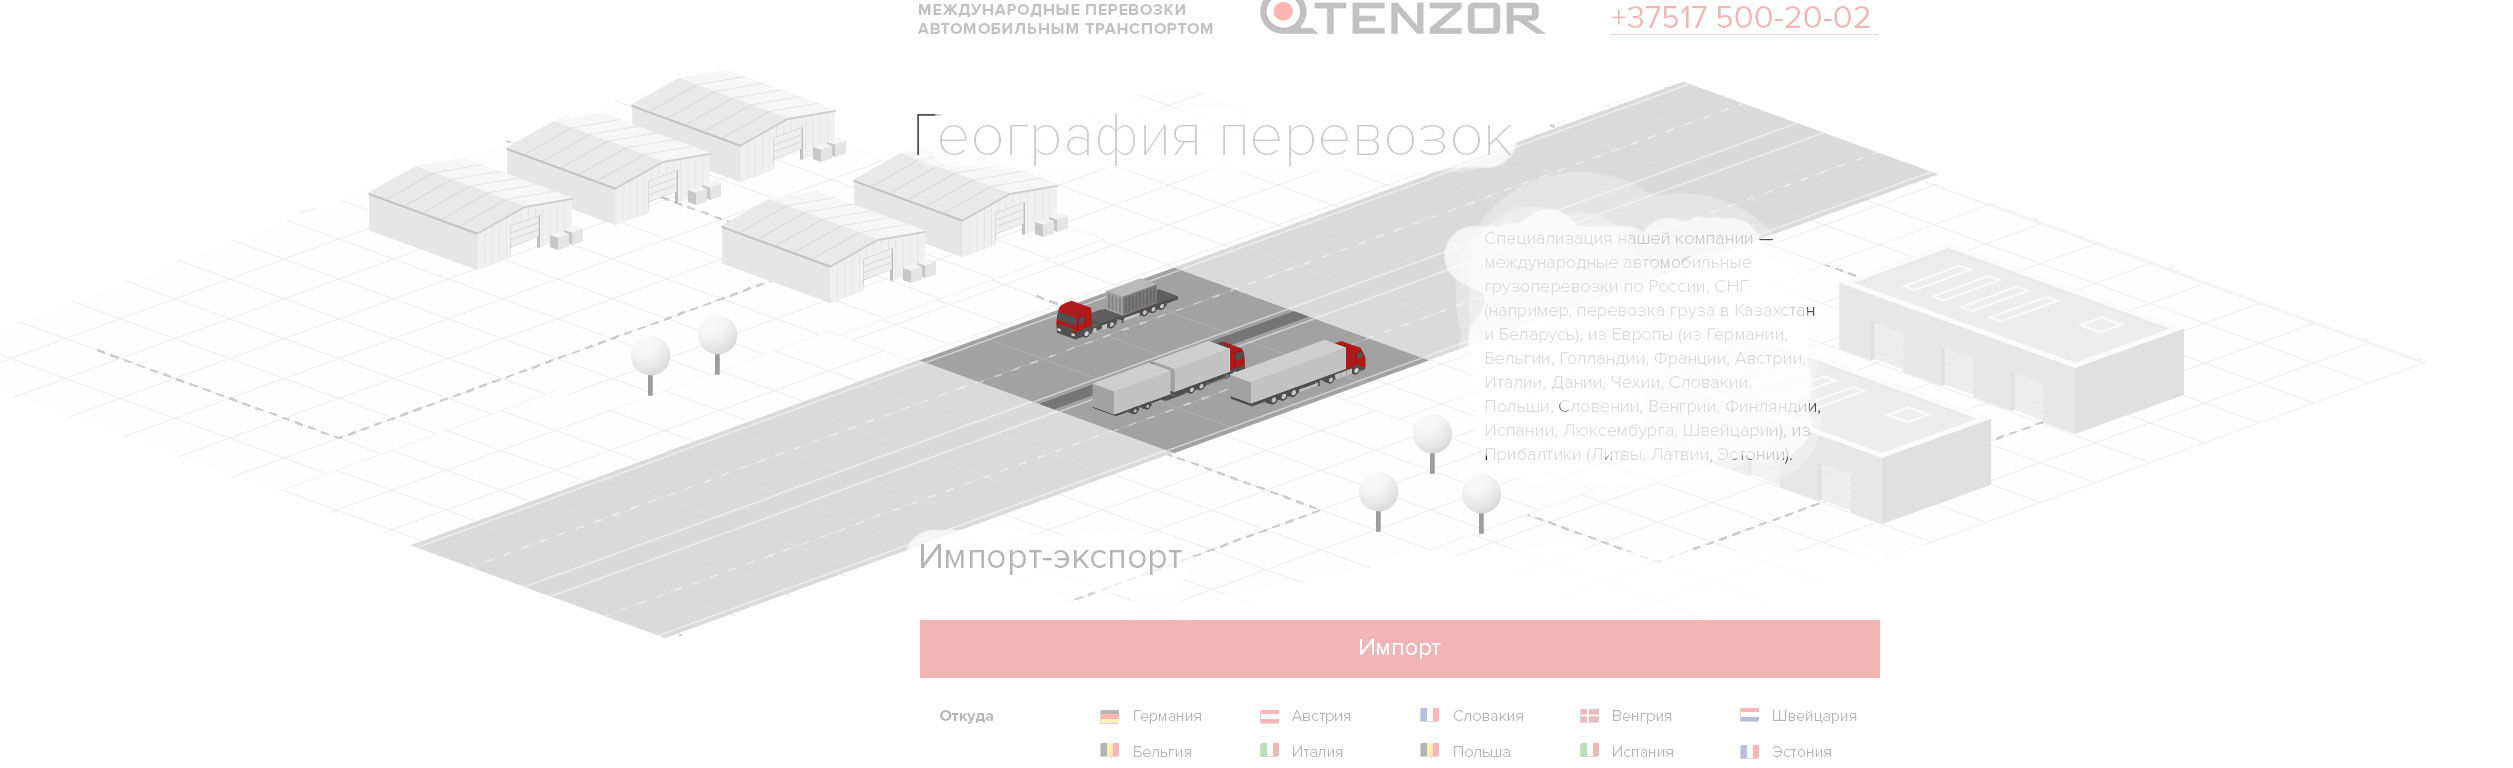
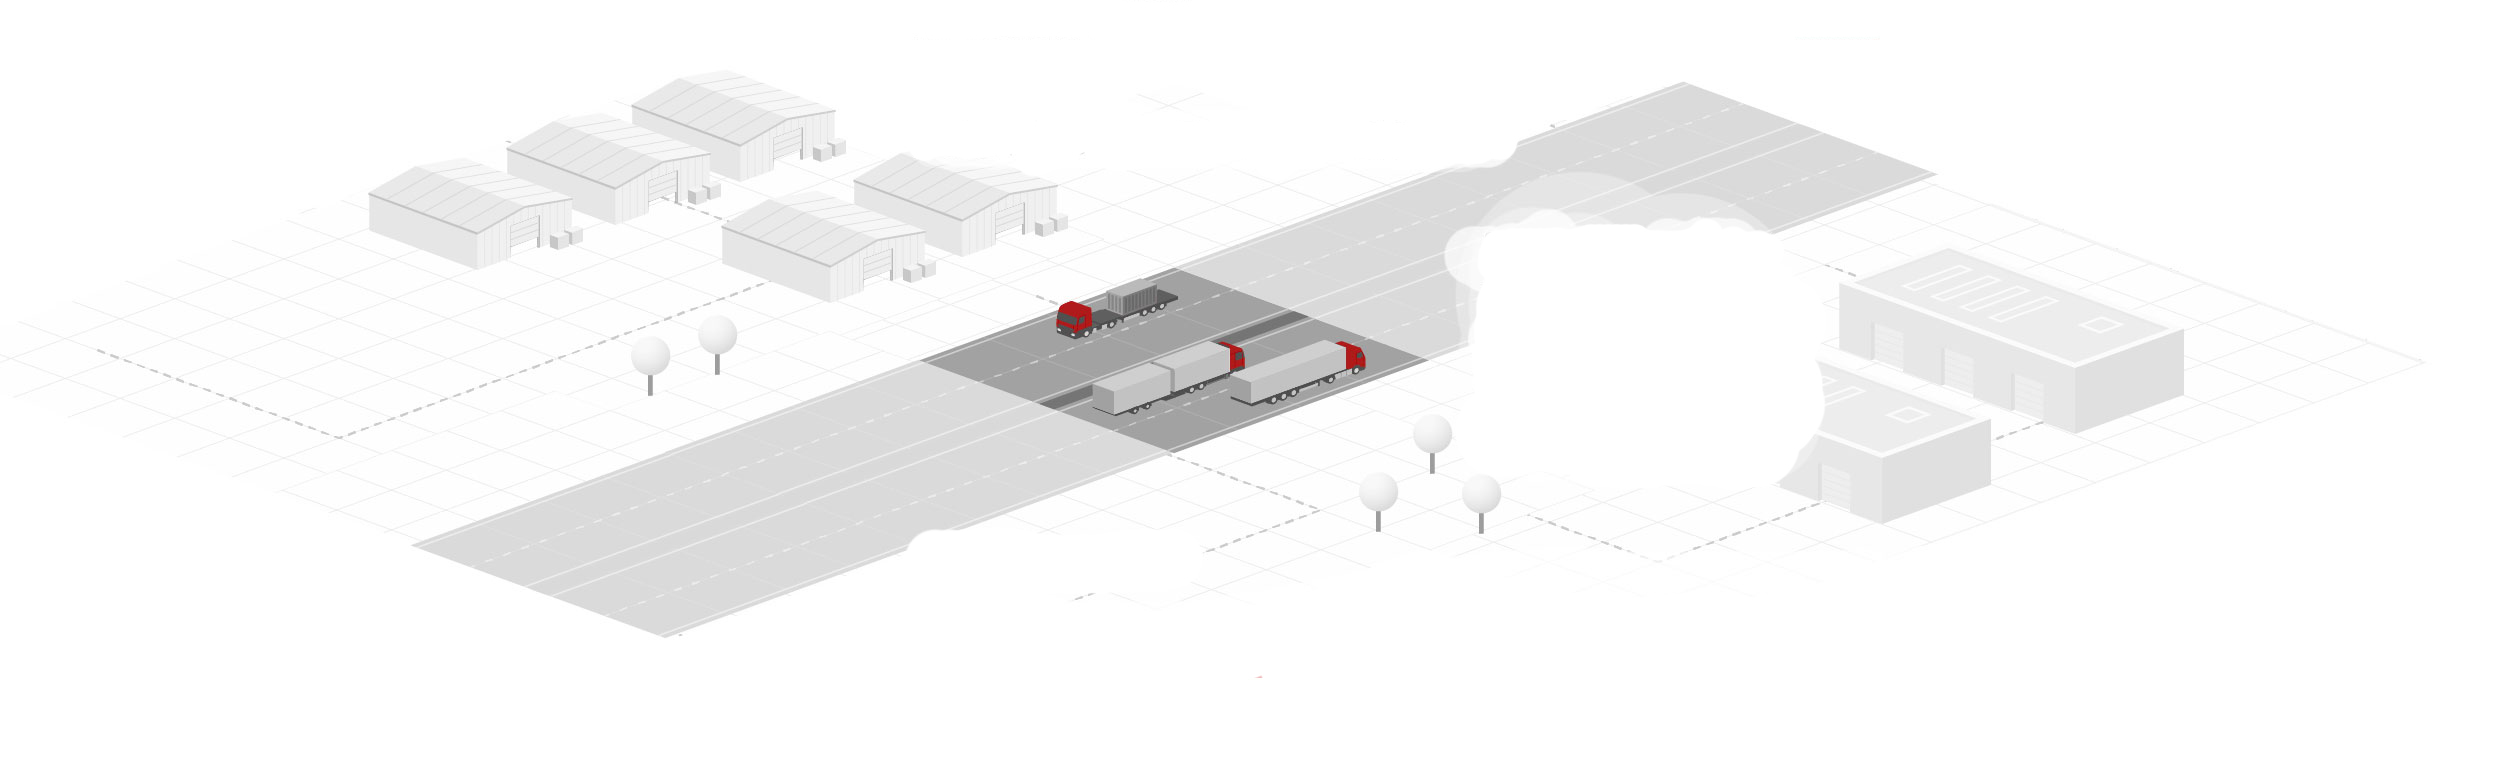
hm_20160831_2310

diff --git a/geography.html b/geography.html
@@ -105,15 +105,19 @@
 			<div class="max-wrap">
 				<!--CONTENT-->
 				<div class="content user-content">
-					<div class="max-wrap-md"><h1>География перевозок</h1></div>
+					<div class="page-title max-wrap-md"><h1>География перевозок</h1></div>
 					<!--visual-->
 					<section class="section visual-section max-wrap-md">
 						<div class="visual">
 							<div class="visual__img">
-								<figure class="visual__figure"><img src="img/figure-01.png" alt="image description" /></figure>
+								<figure class="visual__figure">
+									<div class="visual__bg"></div>
+									<img src="img/figure-01.png" alt="image description" />
+								</figure>
 							</div>
 							<div class="visual__content">
-								<div class="visual__text">Специализация нашей компании — международные автомобильные грузоперевозки по России, СНГ (например, перевозка груза в Казахстан и Беларусь), из Европы (из Германии, Бельгии, Голландии, Франции, Австрии, Италии, Дании, Чехии, Словакии, Польши, Словении, Венгрии, Финляндии, Испании, Люксембурга, Швейцарии), из Прибалтики (Литвы, Латвии, Эстонии). При огромной географии российских и международных грузоперевозок мы всегда рассмотрим заявки на перевозку попутного груза.</div>
+								<div class="visual__text">Специализация нашей компании — международные автомобильные грузоперевозки по России, СНГ (например, перевозка груза в Казахстан и Беларусь), из Европы (из Германии, Бельгии, Голландии, Франции, Австрии, Италии, Дании, Чехии, Словакии, Польши, Словении, Венгрии, Финляндии, Испании, Люксембурга, Швейцарии), из Прибалтики (Литвы, Латвии, Эстонии). При
+									<a href="#">огромной географии</a> российских и международных грузоперевозок мы всегда рассмотрим заявки на перевозку попутного груза.</div>
 							</div>
 						</div>
 					</section>

diff --git a/css/all.css b/css/all.css
@@ -1593,6 +1593,12 @@ div.cselect .ui-multiselect-checkboxes input[type="radio"] + span:after{ content
 }
 /*breadcrumbs end*/
 
+/*page title*/
+.page-title{
+	position: relative;
+}
+/*page title end*/
+
 /*section*/
 .section{ padding-bottom: 70px; }
 .section h2{
@@ -2077,6 +2083,7 @@ div.cselect .ui-multiselect-checkboxes input[type="radio"] + span:after{ content
 /*connect end*/
 
 /*visual*/
+.visual-section{ position: relative; }
 .visual{
 	font-size: 0;
 	letter-spacing: -4px;
@@ -2094,10 +2101,28 @@ div.cselect .ui-multiselect-checkboxes input[type="radio"] + span:after{ content
 .visual__figure{
 	display: block;
 	margin: 0 auto;
+	position: relative;
+	max-width: 510px;
+}
+.visual__figure img{
+	position: relative;
+}
+.visual__bg{
+	position: absolute;
+	left: 100%;
+	top: 100%;
+	width: 492%;
+	height: 413%;
+	margin: -88.8% 0 0 -279.9%;
+	background: url(../img/temp-bg-section.jpg) no-repeat 50% 50%;
+	-webkit-background-size: contain;
+	background-size: contain;
+	z-index: -1;
 }
 .visual__content{
 	overflow: hidden;
 	display: inline-block;
+	position: relative;
 	vertical-align: middle;
 	width: 46.98%;
 	padding-left: 55px;
@@ -2931,7 +2956,7 @@ div.cselect .ui-multiselect-checkboxes input[type="radio"] + span:after{ content
 	height: 317px;
 	width: 317px;
 	max-height: 100%;
-	background: url(../img/img-wheel-layer.png) no-repeat;
+	/*background: url(../img/img-wheel-layer.png) no-repeat;*/
 	-webkit-background-size: contain;
 	background-size: contain;
 	-webkit-animation-name: rotateWheel;

diff --git a/car-park.html b/car-park.html
@@ -105,7 +105,7 @@
 			<div class="max-wrap">
 				<!--CONTENT-->
 				<div class="content user-content">
-					<div class="max-wrap-md"><h1>Автопарк</h1></div>
+					<div class="page-title max-wrap-md"><h1>Автопарк</h1></div>
 					<!--visual slider-->
 					<section class="visual-slider max-wrap-md">
 						<div class="visual-slider__labels">

diff --git a/about.html b/about.html
@@ -105,7 +105,7 @@
 			<div class="max-wrap">
 				<!--CONTENT-->
 				<div class="content user-content">
-					<div class="max-wrap-md"><h1>О компании</h1></div>
+					<div class="page-title max-wrap-md"><h1>О компании</h1></div>
 					<!--visual-->
 					<section class="section visual-section max-wrap-md">
 						<div class="visual">

diff --git a/css/640.css b/css/640.css
@@ -1,7 +1,5 @@
 @media only screen and (max-width: 639px){}
 
-@media only screen and (max-width: 979px){}
-
 /*TYPOGRAPHIC STYLES*/
 body{}
 h1, h2, h3, h4, h5, h6{}
@@ -270,10 +268,6 @@ div.cselect.ui-multiselect-menu{}
 	float: none;
 	width: auto;
 	padding: 0 0 20px;
-}
-.trans-list li {
-	display: block;
-	width: auto;
 }
 /*trans end*/
 

diff --git a/jobs.html b/jobs.html
@@ -105,7 +105,7 @@
 			<div class="max-wrap">
 				<!--CONTENT-->
 				<div class="content user-content">
-					<div class="max-wrap-md"><h1>Вакансии</h1></div>
+					<div class="page-title max-wrap-md"><h1>Вакансии</h1></div>
 
 					<!--jobs-->
 					<section class="section jobs max-wrap-md">

diff --git a/css/480.css b/css/480.css
@@ -1,1 +1,16 @@
 @media only screen and (max-width: 479px){}
+
+/*trans*/
+.trans-list li {
+	width: 49.98%;
+}
+/*trans end*/
+
+@media only screen and (max-width: 399px){
+	/*trans*/
+	.trans-list li {
+		display: block;
+		width: auto;
+	}
+	/*trans end*/
+}
